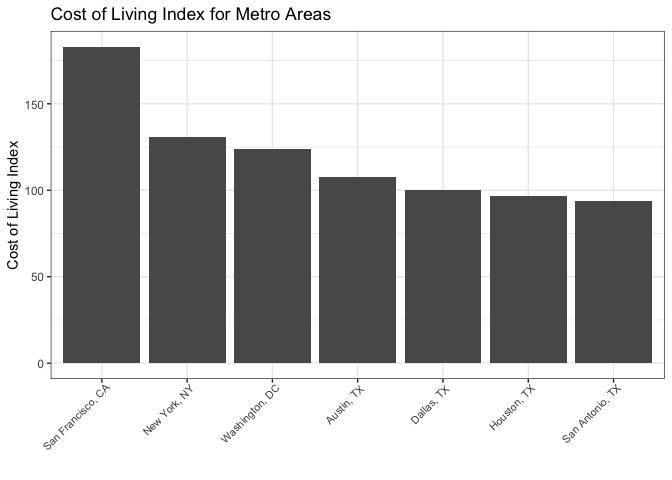
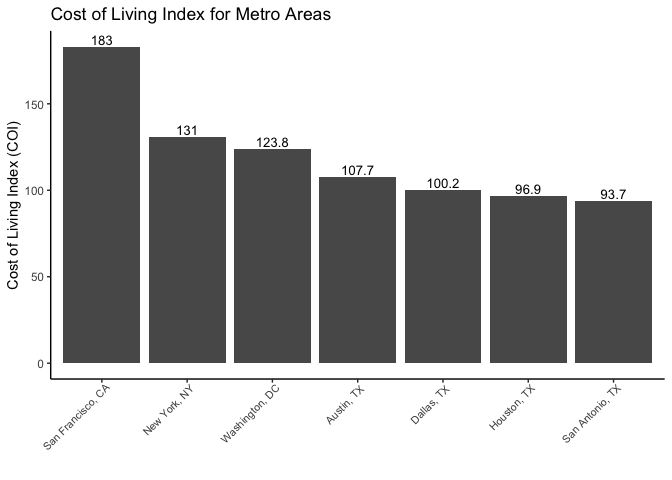
updated a couple graphs

diff --git a/EDA/col_analysis.md b/EDA/col_analysis.md
@@ -58,8 +58,9 @@ area_COI %>% ggplot(aes(x = reorder(metro_location, -coi), y = coi)) +
   geom_bar(stat = "identity") +
   labs(title = "Cost of Living Index for Metro Areas",
          x = "",
-         y = "Cost of Living Index") +
-  theme_bw() +
+         y = "Cost of Living Index (COI)") +
+  geom_text(aes(label=coi), position=position_dodge(width=0.9), vjust=-0.25, size = 3.5) +
+  theme_classic() +
   theme( axis.text.x = element_text(angle = 45, vjust = 1, hjust=0.95, size = 8))
 ```
 
